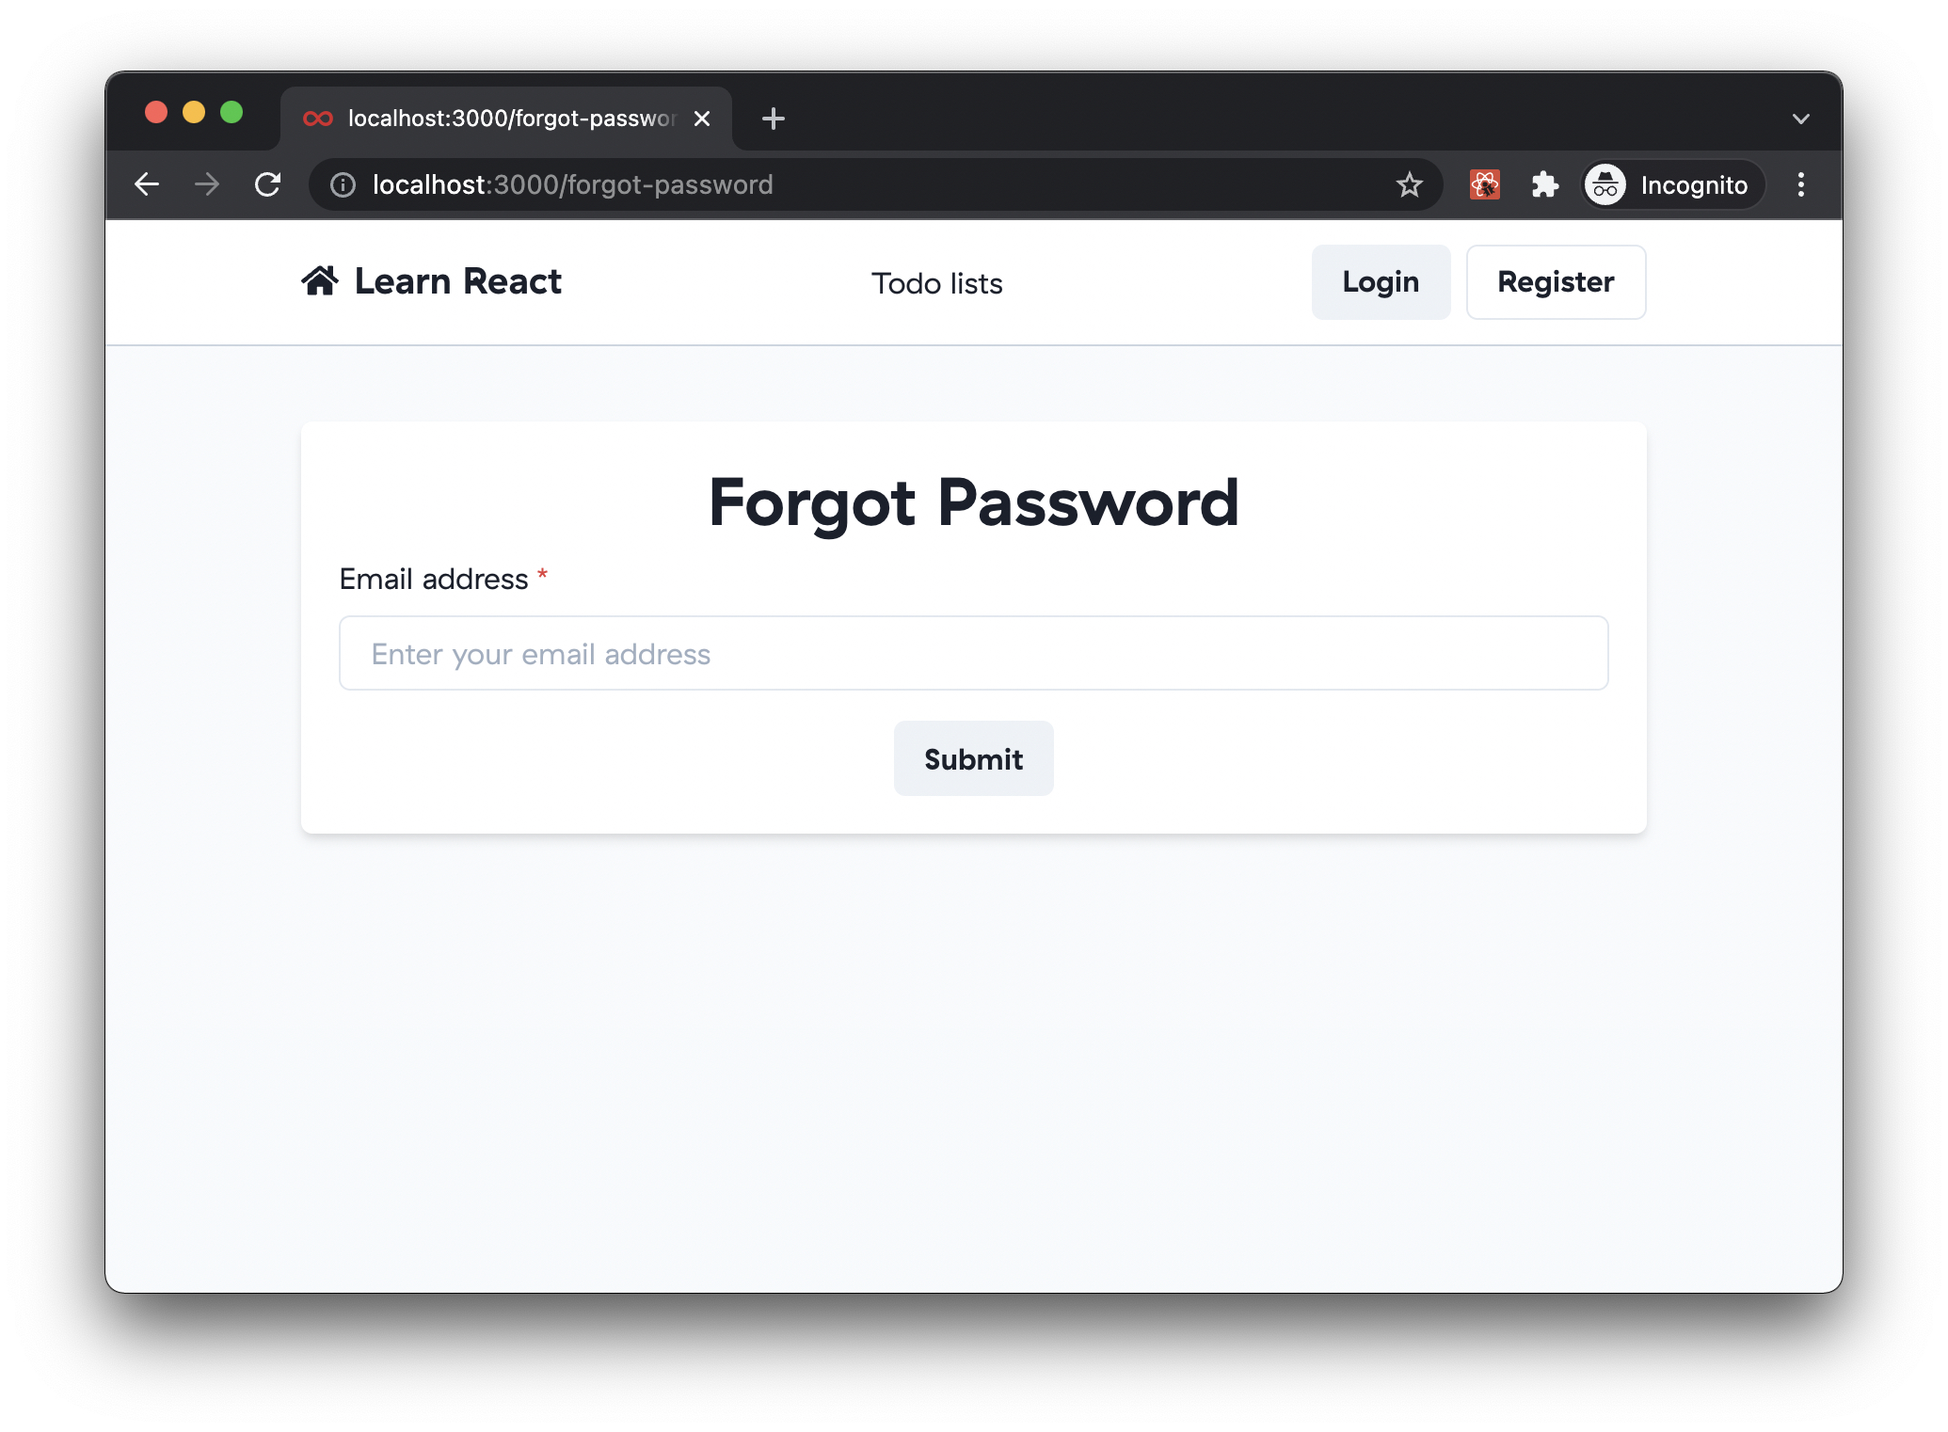
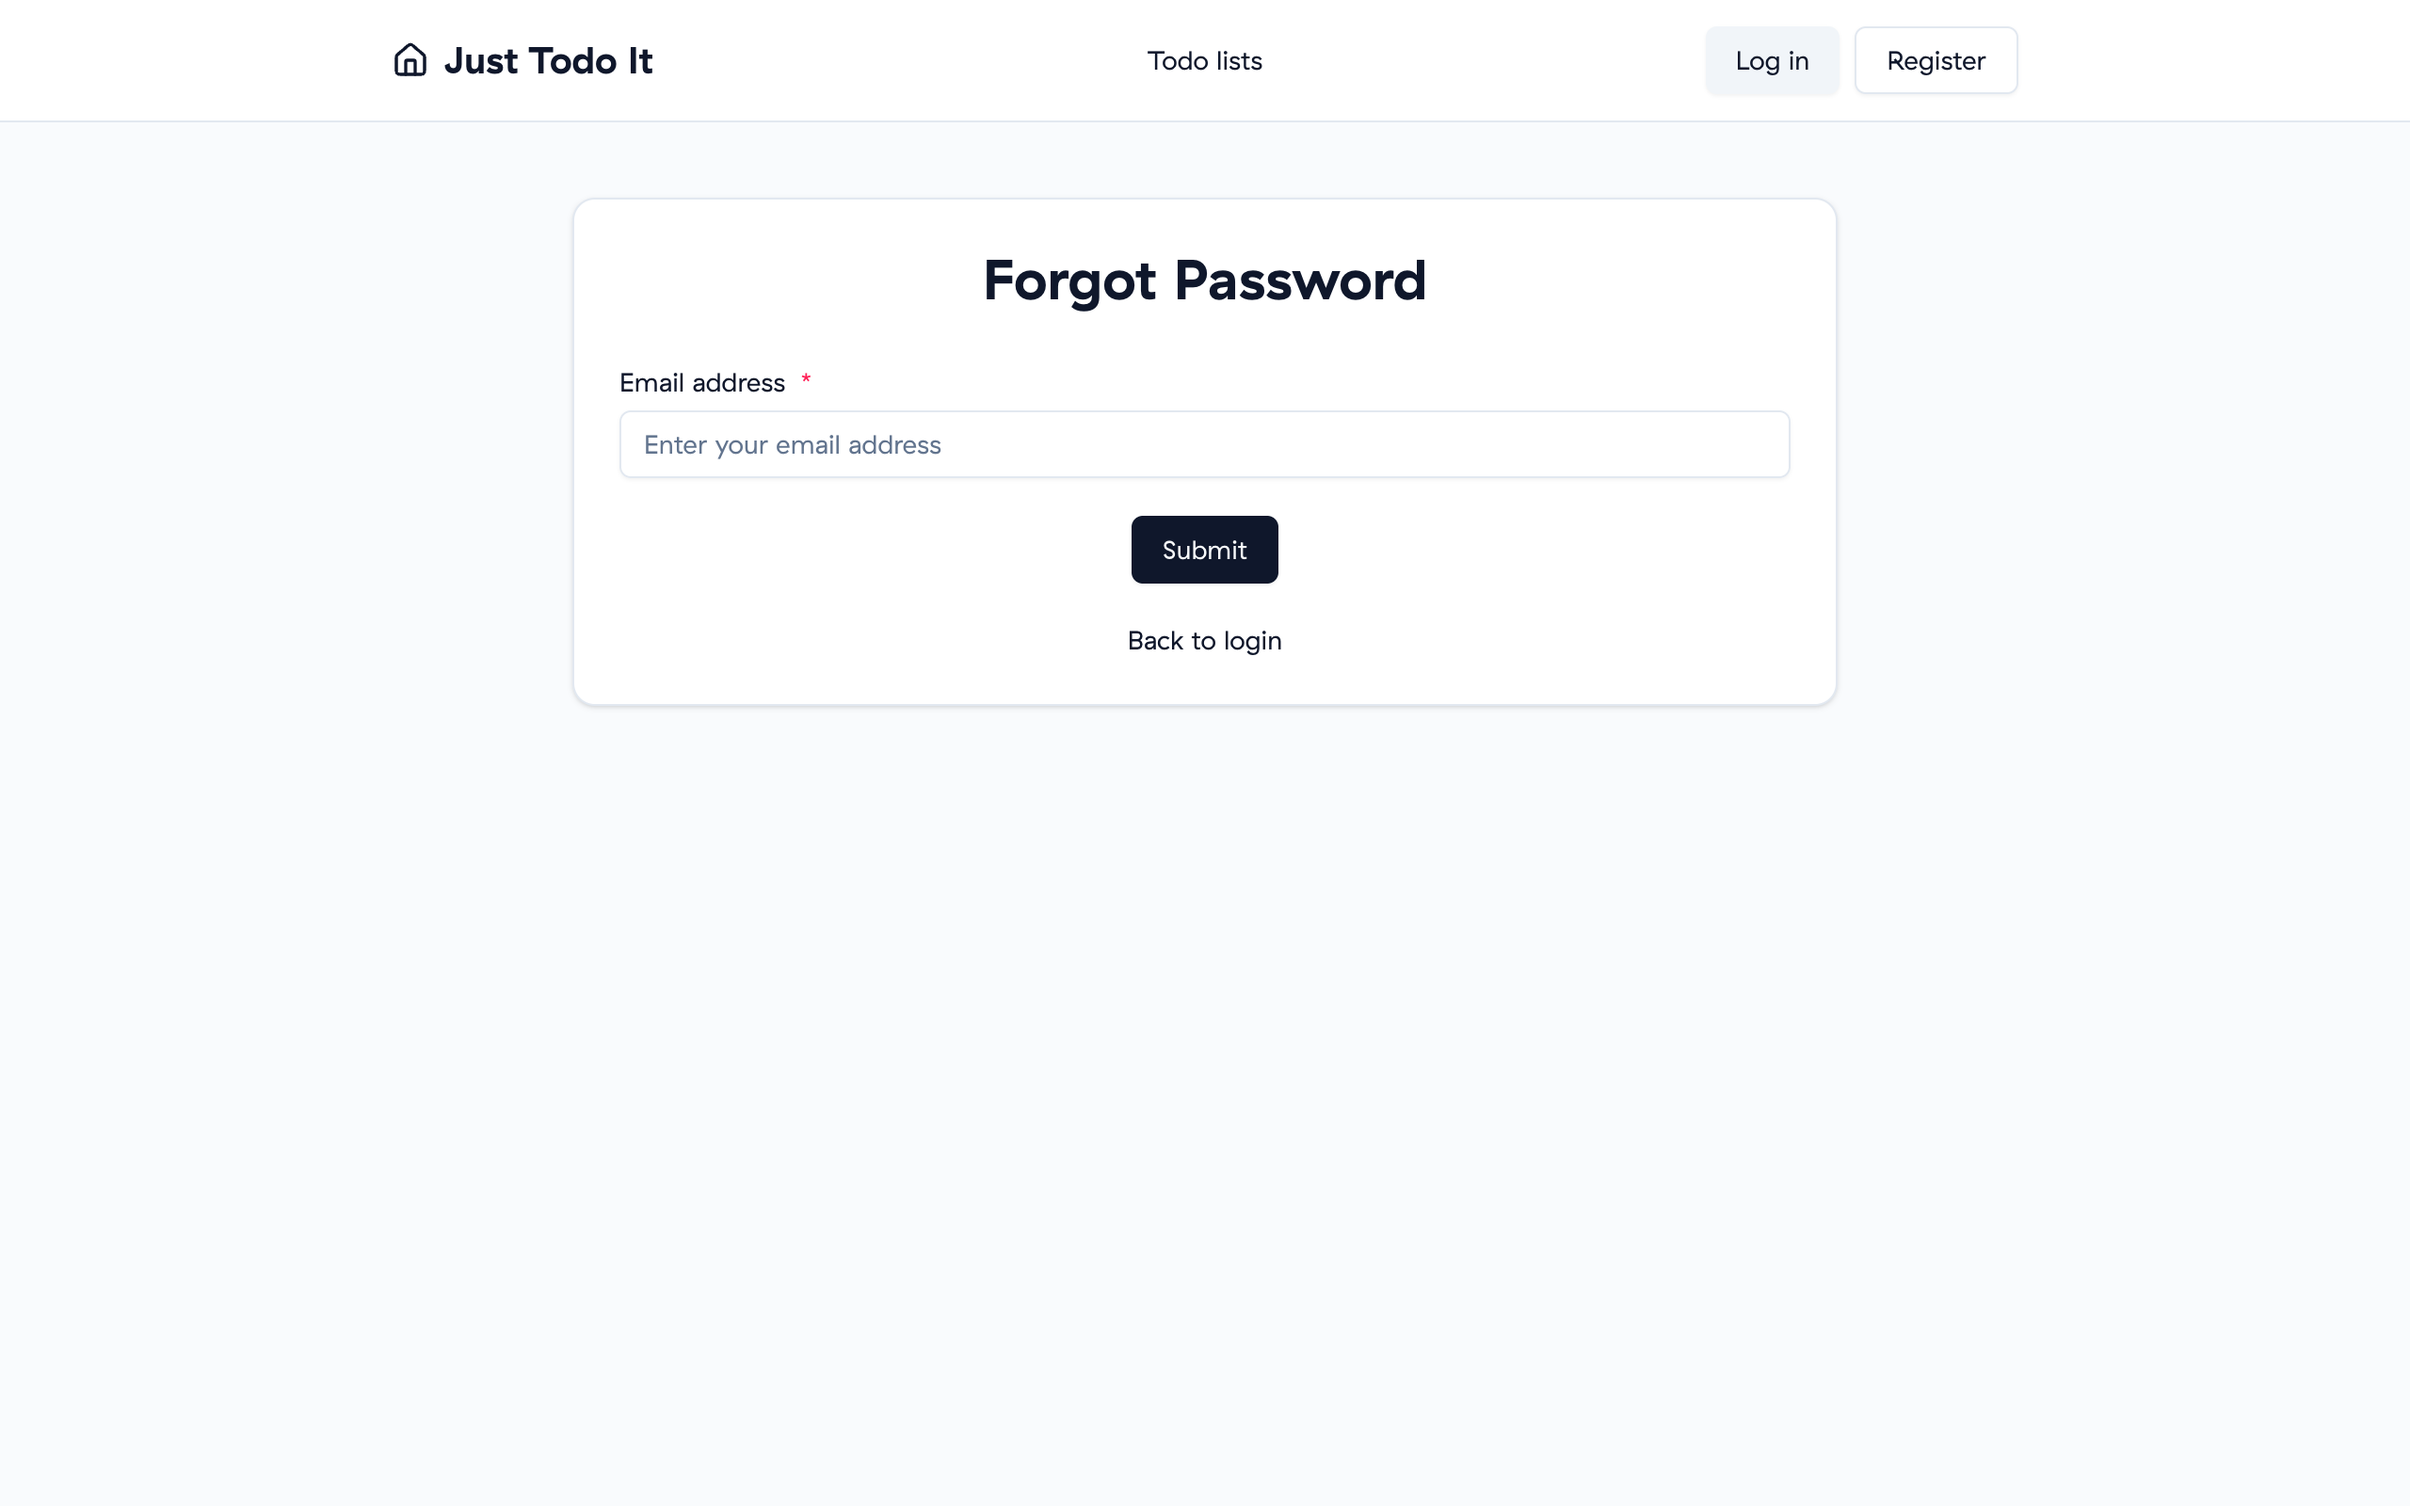
Retake the Next.js screenshots and fix friction from persona walkthroughs
Five simulated newcomers went through the onboarding. The Next.js
screenshots now come from an app built on the shadcn starter, and
the text wins wherever a screenshot disagrees with it. The AI setup
prompt is now run at user scope, shadcn components are added with
pnpm exec, and the Angular notes warn that just-todo-it/ is not the
git root. The logout row no longer mentions a sessionId cookie, the
PR template asks for the format check, and api/.env.example shows
HTTP_PORT.

diff --git a/README.md b/README.md
@@ -67,7 +67,7 @@ pnpm exec skills add infinum/ai --skill pr-review-code-simplicity -y
 
 The [`skills`](https://github.com/vercel-labs/skills) CLI is installed as a dev dependency rather than run with `pnpm dlx`, so it goes through your lockfile and the `minimumReleaseAge` you set while scaffolding (the Handbook's Node security chapter bans `npx` and `pnpm dlx` for this reason). It then installs the [`pr-review-code-simplicity`](https://github.com/infinum/ai/tree/main/plugins/pr-review-code-simplicity) skill from [`infinum/ai`](https://github.com/infinum/ai) into your project. That writes `.agents/skills/` (read by Codex, Cursor and most other agents), a `.claude/skills/` symlink for Claude Code, and a `skills-lock.json` recording which version you installed. Commit all of it, so your mentor can run the same review on your PRs.
 
-**2. Recommended: set up the wider Infinum AI stack on your machine.** Run the [`prompts/ai-engineering-setup.md`](https://github.com/infinum/ai/blob/main/prompts/ai-engineering-setup.md) prompt with your coding agent. It installs globally, for every project you work on, so nothing from it goes into your repository.
+**2. Recommended: set up the wider Infinum AI stack on your machine.** Run the [`prompts/ai-engineering-setup.md`](https://github.com/infinum/ai/blob/main/prompts/ai-engineering-setup.md) prompt with your coding agent. When it asks for the install scope, choose user/global, so nothing from it goes into your repository.
 
 **Before opening every PR**, run `pr-review-code-simplicity` on your branch. Fix or answer what it finds, then tick both boxes under "Self-review done" in the PR description and name the skill you used.
 
@@ -139,7 +139,7 @@ Status codes you'll meet:
 | `POST` | `/auth/resend-activation-email` | `{ email }`            | `204`                             |
 | `POST` | `/auth/activate`                | `{ token, password }`  | `200` user                        |
 | `POST` | `/auth/login`                   | `{ email, password }`  | `200` user + session cookie       |
-| `POST` | `/auth/logout`                  | —                      | `204` + `token` and `sessionId` cookies cleared (needs a valid session, otherwise `401`) |
+| `POST` | `/auth/logout`                  | —                      | `204` + `token` cookie cleared (needs a valid session, otherwise `401`) |
 | `GET`  | `/auth/user`                    | —                      | `200` the logged-in user (`401` if nobody is) |
 | `POST` | `/auth/request-password-reset`  | `{ email }`            | `204` (also for an unknown email) |
 | `POST` | `/auth/reset-password`          | `{ token, password }`  | `200` user                        |

diff --git a/Angular.md b/Angular.md
@@ -2,7 +2,7 @@
 
 What the app must do is described in [Requirements.md](./Requirements.md). This file only covers how to get started on the Angular track, some optional suggestions, and the concepts you'll be asked to explain in review.
 
-Reference screenshots for this track are in [`.assets/app/angular/`](./.assets/app/angular/), together with a [demo video](./.assets/app/angular/demo.mp4). Like the Next.js set, they're reference, not spec.
+Reference screenshots for this track are in [`.assets/app/angular/`](./.assets/app/angular/), together with a [demo video](./.assets/app/angular/demo.mp4). They come from an older version of the app and are reference, not spec. Where they differ from Requirements.md (e.g. the `/todo-lists` route, a page size of 10, forgot-password as a modal), Requirements.md wins.
 
 ## 1. Scaffold
 
@@ -18,7 +18,7 @@ Replace `xyz` with a component prefix you like. The other flags answer the quest
 - `--style=scss`: SCSS (see the suggestions below). Pick CSS or Tailwind instead if you prefer.
 - `--ssr=false`: the requirements don't need server-side rendering, and leaving it out keeps the auth flow in the browser. Turning it on is a valid decision, but then you have to handle the session cookie on the server too.
 - `--ai-config=none`: your AI setup comes from [README §2.1](./README.md#21-set-up-your-ai-workflow), so don't let Angular generate a separate one.
-- `--skip-git`: you're already inside a git repository.
+- `--skip-git`: you're already inside a git repository, so `just-todo-it/` isn't the git root. Keep that in mind when you set up the pre-commit hook, and check that a commit with a lint error is actually rejected.
 - `--skip-install`: you'll install after the next step.
 
 Then install inside the app:

diff --git a/Requirements.md b/Requirements.md
@@ -4,7 +4,7 @@ This document describes **what** the app must do, whichever framework you're on.
 
 Each section lists behaviours and acceptance criteria. A requirement is met when every acceptance criterion under it can be shown to hold, by you, your tests or your reviewer. Framework-specific notes (scaffolding, optional suggestions, concepts you'll be asked to explain) are in [Nextjs.md](./Nextjs.md) and [Angular.md](./Angular.md).
 
-> **Screenshots are reference, not spec.** They show one possible layout and the states the app has to handle. Use them as a visual target for content and states. Pixel-matching them is not a requirement: they come from an older version of the app built with Chakra UI, so your app won't look like them. The Next.js set is embedded below. The Angular set is in [`.assets/app/angular/`](./.assets/app/angular/), together with a [demo video](./.assets/app/angular/demo.mp4).
+> **Screenshots are reference, not spec.** They show one possible layout and the states the app has to handle. Use them as a visual target for content and states, not pixels. Where a screenshot and the text disagree, the text wins. The Next.js set (built from the Next.js starter) is embedded below. The Angular set is in [`.assets/app/angular/`](./.assets/app/angular/), together with a [demo video](./.assets/app/angular/demo.mp4).
 
 The API you build against is in `api/` and documented in the [README](./README.md#4-api). Treat it as a third-party API you don't control. Its [constraints](./README.md#44-constraints-to-design-around) (replace-all updates, the total count in a response header, 1-indexed pages) are part of the problem you're solving.
 

diff --git a/Nextjs.md b/Nextjs.md
@@ -39,7 +39,7 @@ It doesn't include an auth library or a data-fetching layer. Choosing those is u
 None of these are required. Use them, replace them or skip them, and record the choice and why in your PR.
 
 - **Auth:** this API already owns the session through its HTTP-only cookie, so plain `fetch` calls plus redirect logic can be enough, and **no auth library** is a good default. Libraries like [Better Auth](https://www.better-auth.com/docs) are common in Next.js apps, but they expect to own the session themselves, so adopting one here means deciding how it fits around the API's cookie. Either way, you should be able to explain what your choice does for you and what it doesn't.
-- **UI:** the starter uses [Tailwind](https://tailwindcss.com/) and [shadcn/ui](https://ui.shadcn.com/), like most of our React projects. Add more components with `pnpm dlx shadcn@latest add <component>`.
+- **UI:** the starter uses [Tailwind](https://tailwindcss.com/) and [shadcn/ui](https://ui.shadcn.com/), like most of our React projects. Add more components with `pnpm exec shadcn add <component>` (shadcn is already a dev dependency).
 - **Forms:** [React Hook Form](https://react-hook-form.com/), including [`useFieldArray`](https://react-hook-form.com/docs/usefieldarray) for dynamic item lists and [`FormProvider`/`useFormContext`](https://react-hook-form.com/docs/formprovider) for sharing a form across components.
 - **Testing:** the starter sets up Jest with [Testing Library](https://testing-library.com/docs/react-testing-library/intro/). Add end-to-end tests if you want them.
 

diff --git a/.github/pull_request_template.md b/.github/pull_request_template.md
@@ -26,6 +26,6 @@ how create and edit share a form.
 ## Self-review done
 
 - [ ] I ran the local PR review skill on this branch and addressed or answered its findings
-- [ ] Lint, typecheck and tests pass
+- [ ] Lint, typecheck, format check and tests pass
 
 Skill used: <!-- e.g. pr-review-code-simplicity -->
